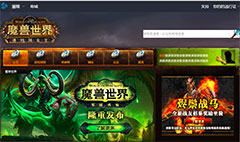
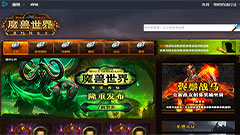
my web

diff --git a/index.html b/index.html
@@ -8,12 +8,16 @@
 <link rel="stylesheet" href="css/jquery.fullPage.css" />
 <link rel="stylesheet" href="css/base.css" />
 <style>
-.section1 { background:url(img/page1bg.jpg) 50%; position:relative; overflow:hidden;}
+.section1 { position:relative; overflow:hidden;}
+.section1 .bg{ position:absolute; left:0; top:0; width:100%; height:100%;}
+.section1 .bg img{ display:block; width:100%; height:100%;}
 .section1 .name{ width:500px; height:200px; position:absolute; left:50%; top:50%; margin-left:-250px; margin-top:-100px;}
 .section1 p{ -webkit-transition:1s all ease;}
 .section1 p:nth-of-type(1){ _position:absolute; left:568px; _top:200px; font-size:58px; color:#f7e11c; -webkit-transform:translateY(-350px);}
 .section1 p:nth-of-type(2){ _position:absolute; left:568px; _top:300px; font-size:58px; color:#e7881e; -webkit-transform:translateY(450px); margin-top:100px;}
-.section2 { background:url(img/page2bg.jpg) 50%; width:100%; height:100%; position:relative; overflow:hidden;}
+.section2 { background:url(img/page2bg.jpg) 100%; width:100%; height:100%; position:relative; overflow:hidden;}
+.section2 .bg{ position:absolute; left:0; top:0; width:100%; height:100%;}
+.section2 .bg img{ display:block; width:100%; height:100%;}
 .section2 h2{ position:absolute; left:45%; top:52px; -webkit-transition:1s all ease; -webkit-transform:translateY(-150px); font-size:48px;}
 .section2 a{ color:#fff; display:block; width:100%; height:100%;}
 .section2 .con{ width:512px; height:218px; position:absolute; left:50%; top:50%; margin-left:-256px; margin-top:-109px; line-height:38px;}
@@ -33,7 +37,7 @@
 #dowebok .active p:nth-of-type(1){-webkit-transition-delay:0.5s; -webkit-transform:translateY(0);}
 #dowebok .active p:nth-of-type(2){ -webkit-transition-delay:1s; -webkit-transform:translateY(0);}
 .section3{ position:relative; width:100%; height:100%; overflow:hidden;}
-.section3 .top{ background:url(img/top.jpg); width:100%; }
+.section3 .top{ background:url(img/top.jpg) 100%; width:100%; }
 .top .nav{ display:-webkit-flex; display:flex; width:100%; height:116px;  line-height:116px; text-align:center;}
 .nav li{ float:left; -webkit-flex:4; flex:4; font-size:20px;}
 .nav li a{ color:#fff;}
@@ -67,12 +71,14 @@ $(function(){
 <body>
 	<div id="dowebok">
         <div class="section section1">
+        	<div class="bg"><img src="img/page1bg.jpg" alt="" /></div>
             <div class="name">
             	<P>姓&nbsp;名：王&nbsp;盟</P>
             	<p>web前端工程师</p>
             </div>
         </div>
         <div class="section section2">
+        	<div class="bg"><img src="img/page2bg.jpg" alt="" /></div>
             <h2>技能展示</h2>
             <div class="con">
             	<p>熟练掌握HTML、CSS等网页制作技术，熟悉页面构架及布局;</p>
